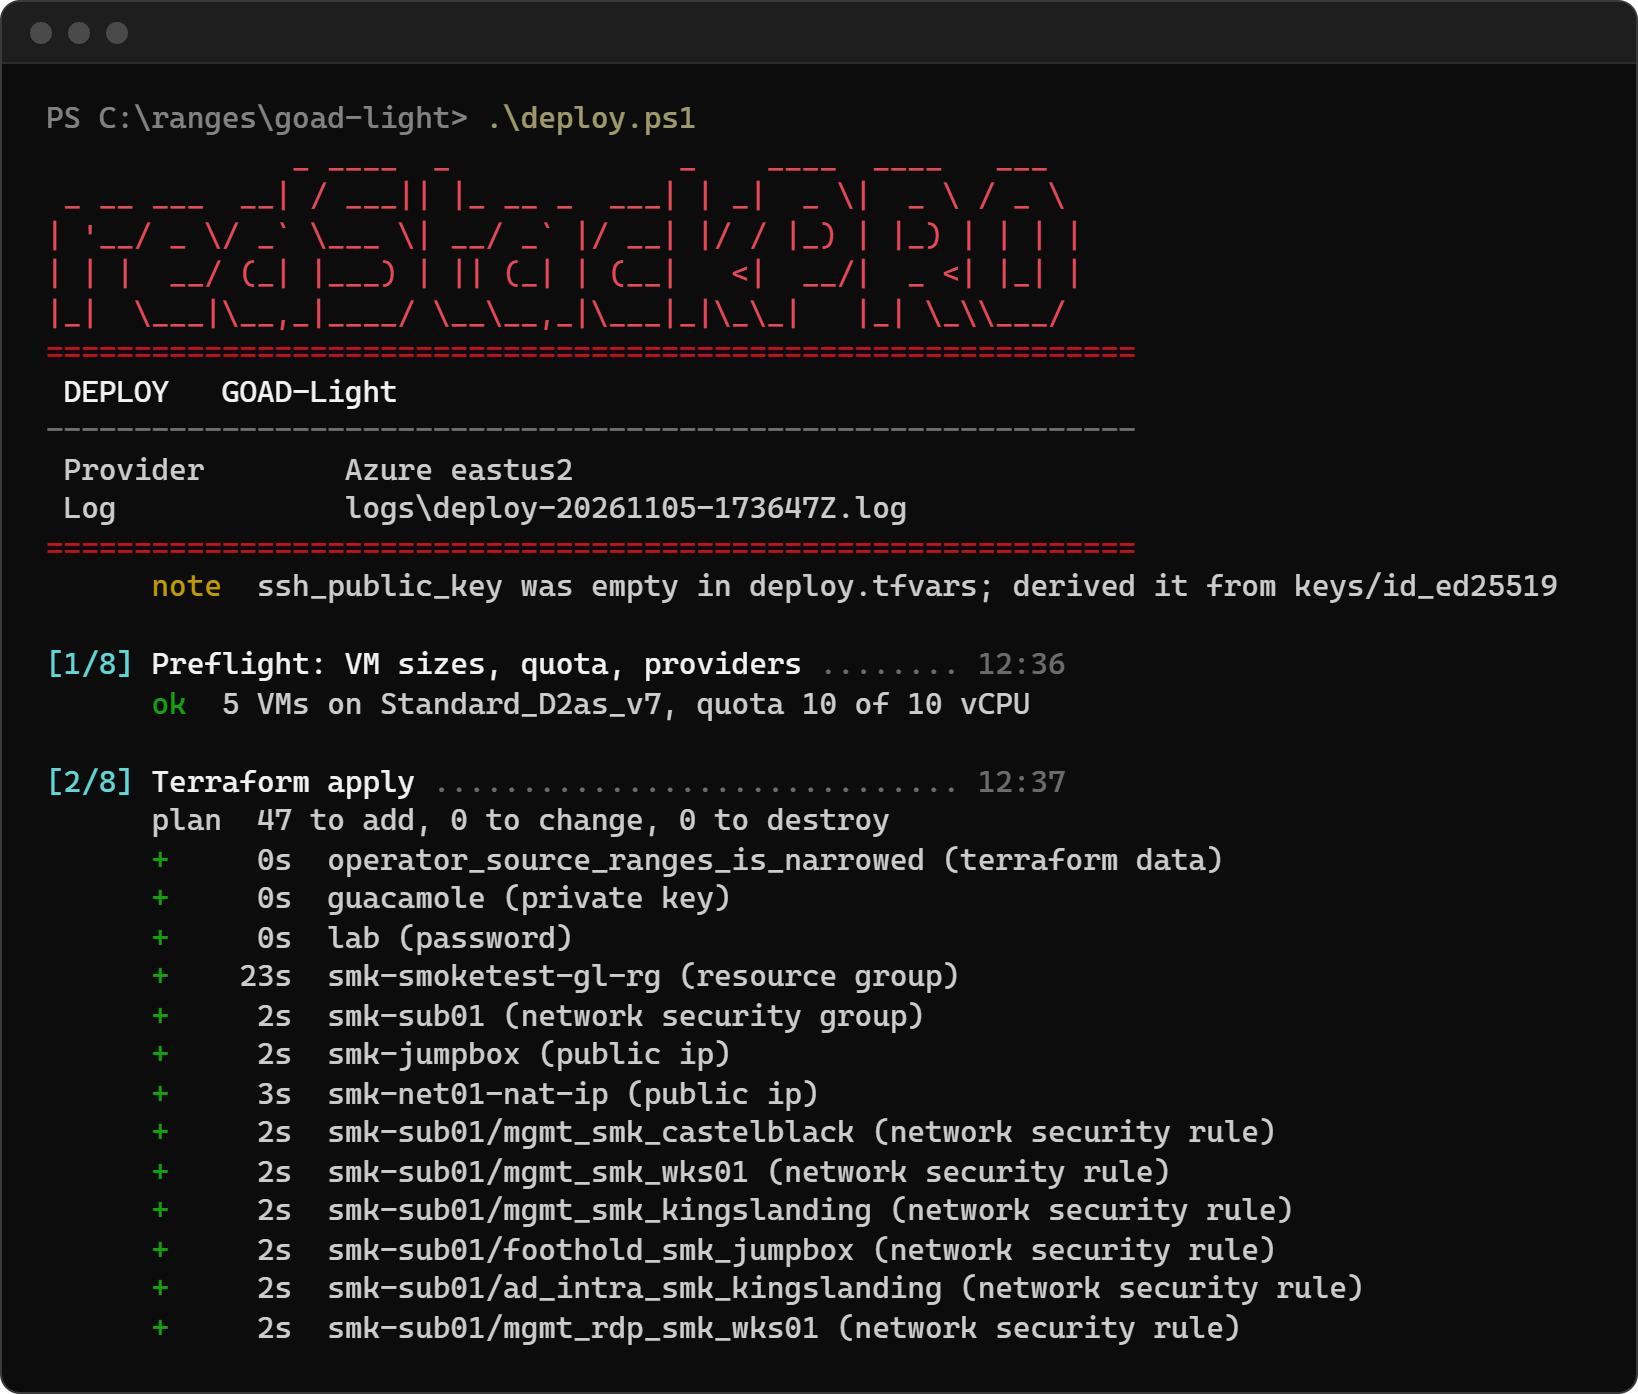
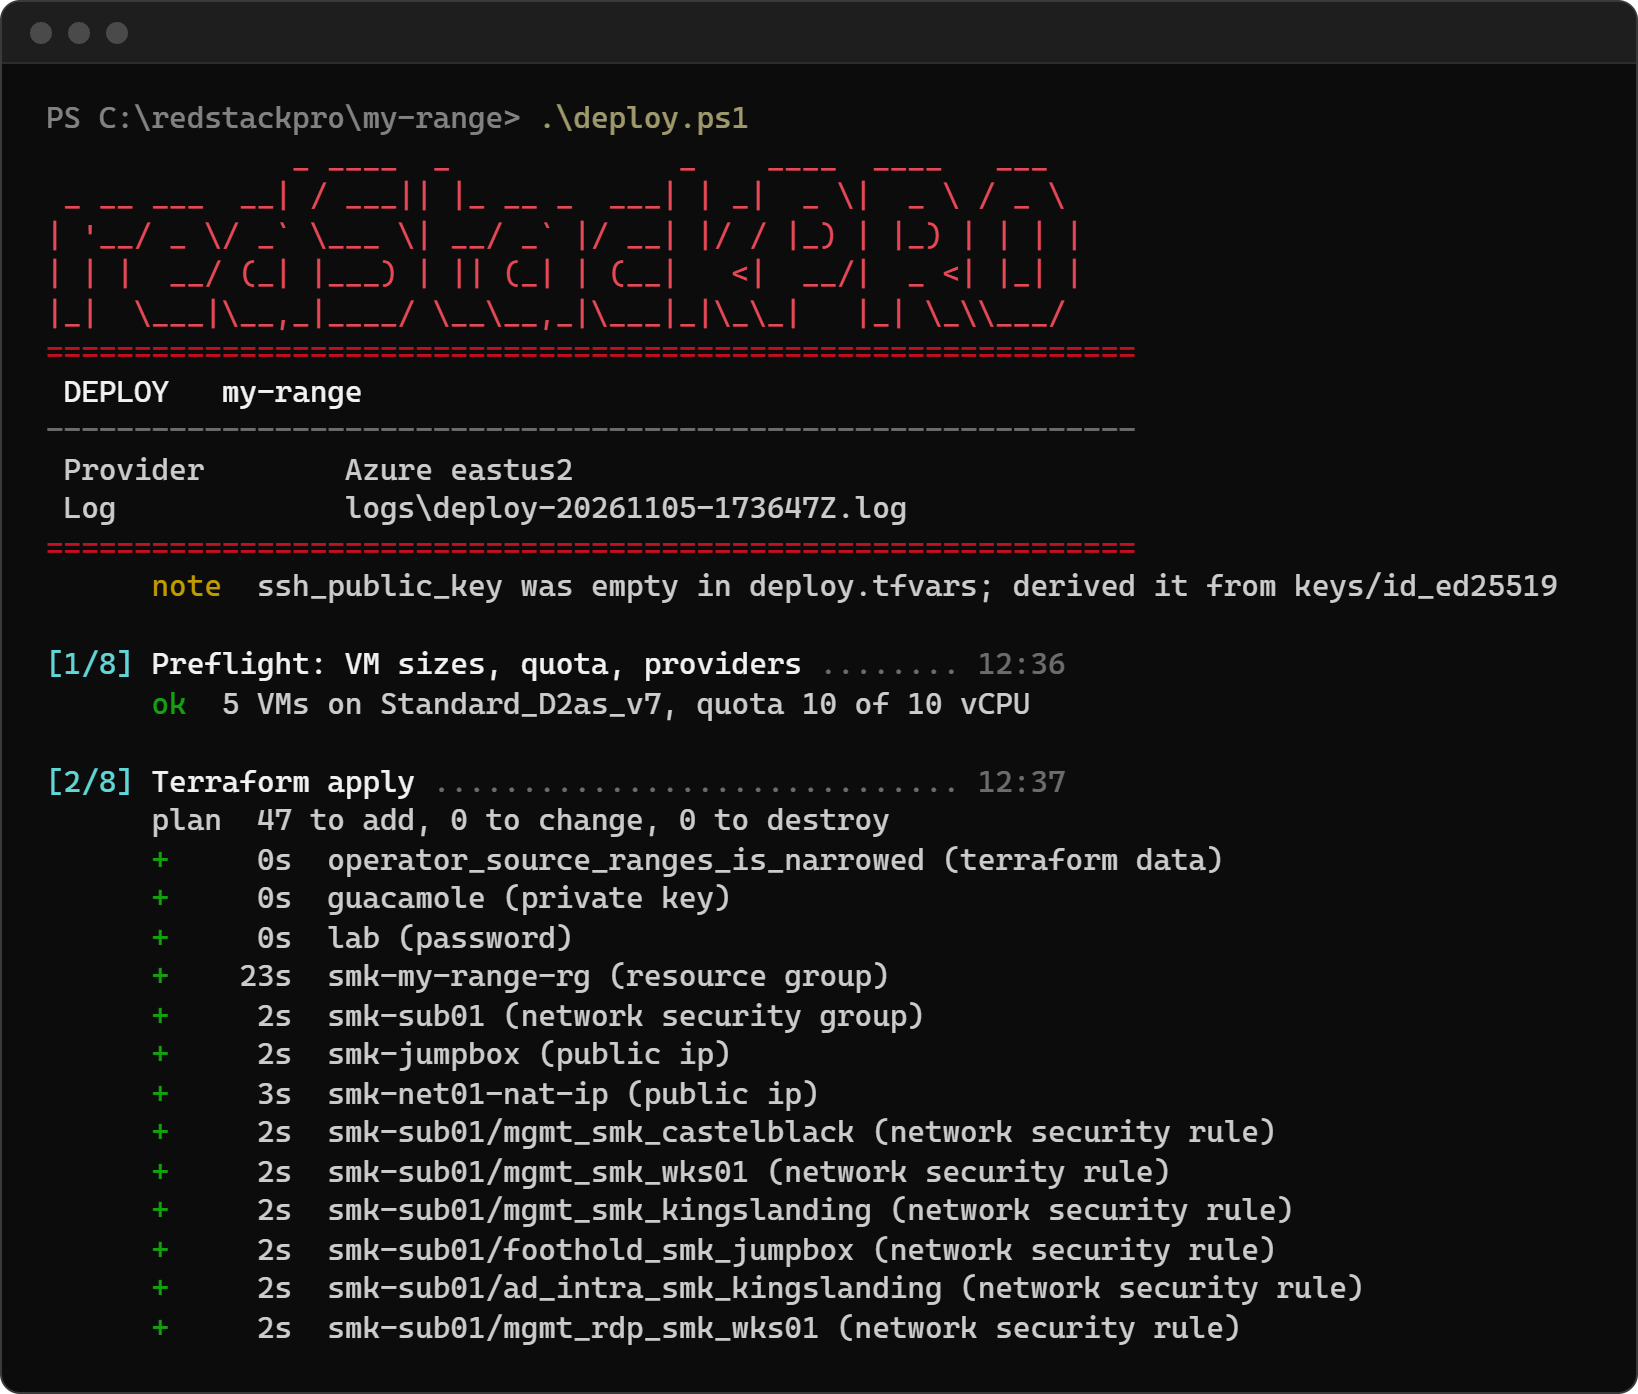
site: deploy terminal shots name the range that ran, not GOAD-Light

Changed region(s): [[0.0934, 0.0617, 0.467, 0.0925], [0.2491, 0.6786, 0.5916, 0.7095], [0.1245, 0.2776, 0.2491, 0.3085]]

diff --git a/index.html b/index.html
@@ -333,9 +333,9 @@
           <div class="shot-label"><span class="dot"></span>Deploy &middot; your terminal</div>
           <div class="frame">
             <img src="terminal-deploy-hero.png" width="819" height="697" loading="lazy"
-                 alt="A PowerShell terminal running .\deploy.ps1 for a GOAD-Light range on Azure eastus2. Under the redStackPRO wordmark and the DEPLOY header, step 1 of 8, preflight, reports 5 VMs on Standard_D2as_v7 with a quota of 10 of 10 vCPU, and step 2 of 8, Terraform apply, shows a plan of 47 to add followed by the first resources created, each with its time.">
+                 alt="A PowerShell terminal in C:\redstackpro\my-range running .\deploy.ps1 for a five-host AD range on Azure eastus2 (GOAD-Light plus a Windows 11 workstation). Under the redStackPRO wordmark and the DEPLOY my-range header, step 1 of 8, preflight, reports 5 VMs on Standard_D2as_v7 with a quota of 10 of 10 vCPU, and step 2 of 8, Terraform apply, shows a plan of 47 to add followed by the first resources created, each with its time.">
           </div>
-          <figcaption><code>deploy.ps1</code> on a GOAD-Light range in Azure: a preflight check of VM sizes and vCPU quota, then the Terraform plan and each resource as it is created.</figcaption>
+          <figcaption><code>deploy.ps1</code> on a five-host AD range in Azure (GOAD-Light plus a Windows 11 workstation): a preflight check of VM sizes and vCPU quota, then the Terraform plan and each resource as it is created.</figcaption>
         </figure>
         <figure class="shot-fig term term-done">
           <div class="shot-label"><span class="dot"></span>Done &middot; what to run next</div>
